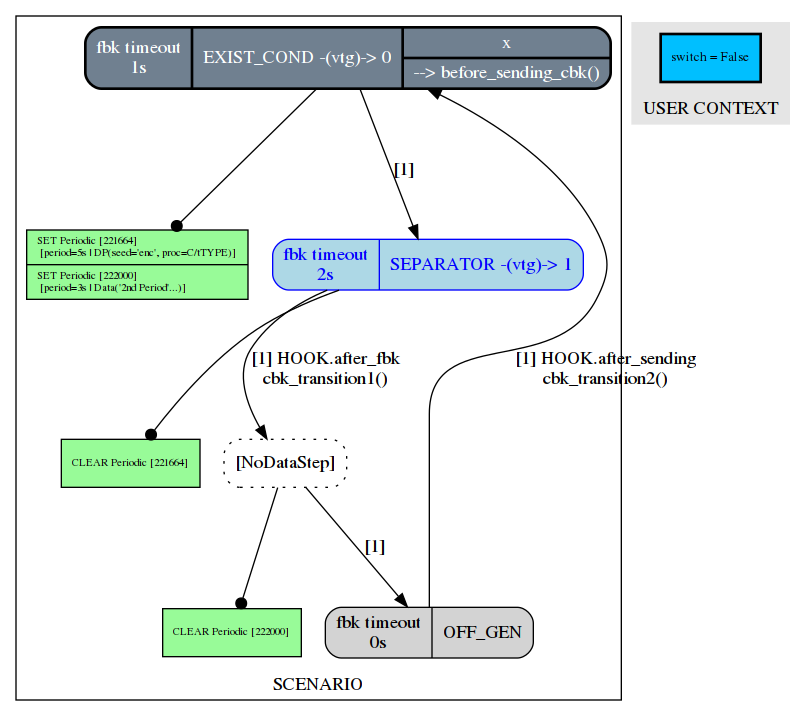
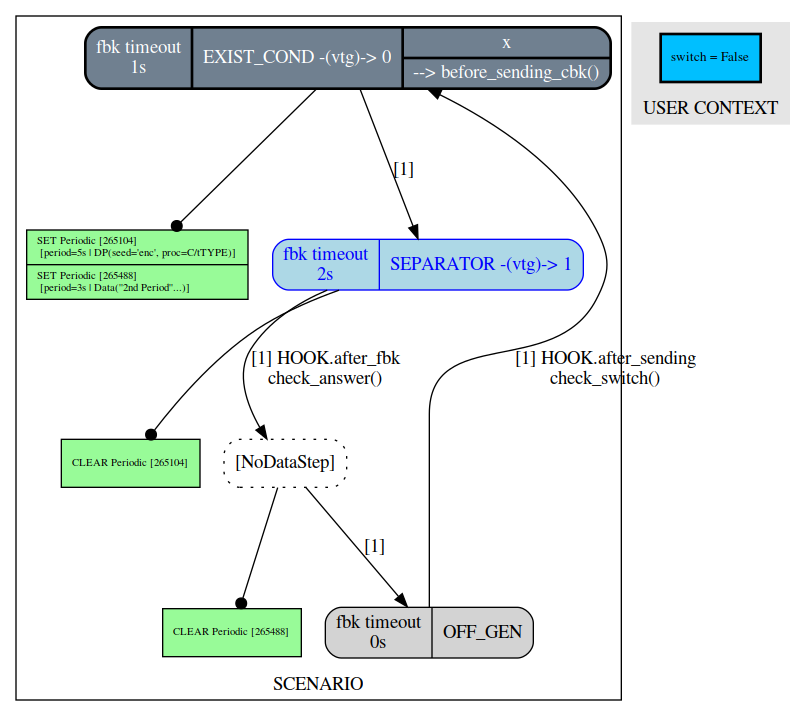
Minor cosmetic changes in tuto data model

diff --git a/data_models/tutorial/tuto_strategy.py b/data_models/tutorial/tuto_strategy.py
@@ -7,7 +7,7 @@ from framework.value_types import *
 
 tactics = Tactics()
 
-def cbk_transition1(env, current_step, next_step, feedback):
+def check_answer(env, current_step, next_step, feedback):
     if not feedback:
         print("\n\nNo feedback retrieved. Let's wait for another turn")
         current_step.make_blocked()
@@ -30,7 +30,7 @@ def cbk_transition1(env, current_step, next_step, feedback):
             print("*** The next node won't be modified!")
         return True
 
-def cbk_transition2(env, current_step, next_step):
+def check_switch(env, current_step, next_step):
     if env.user_context.switch:
         return False
     else:
@@ -48,8 +48,7 @@ def before_data_processing_cbk(env, step):
         step.content.show()
     return True
 
-periodic1 = Periodic(DataProcess(process=[('C', UI(nb=1)), 'tTYPE'], seed='enc'),
-                     period=5)
+periodic1 = Periodic(DataProcess(process=[('C', UI(nb=1)), 'tTYPE'], seed='enc'), period=5)
 periodic2 = Periodic(Data('2nd Periodic (3s)\n'), period=3)
 
 ### SCENARIO 1 ###
@@ -63,9 +62,9 @@ step1_copy = copy.copy(step1) # for scenario 2
 step2_copy = copy.copy(step2) # for scenario 2
 
 step1.connect_to(step2)
-step2.connect_to(empty, cbk_after_fbk=cbk_transition1)
+step2.connect_to(empty, cbk_after_fbk=check_answer)
 empty.connect_to(step4)
-step4.connect_to(step1, cbk_after_sending=cbk_transition2)
+step4.connect_to(step1, cbk_after_sending=check_switch)
 
 sc_tuto_ex1 = Scenario('ex1', anchor=step1, user_context=UI(switch=False))
 
@@ -74,7 +73,7 @@ step4 = Step(DataProcess(process=['tTYPE#2'], seed='shape'))
 step_final = FinalStep()
 
 step1_copy.connect_to(step2_copy)
-step2_copy.connect_to(step4, cbk_after_fbk=cbk_transition1)
+step2_copy.connect_to(step4, cbk_after_fbk=check_answer)
 step4.connect_to(step_final)
 
 sc_tuto_ex2 = Scenario('ex2', anchor=step1_copy)
@@ -88,7 +87,7 @@ option1 = Step(Data('Option 1'), step_desc='option 1\ndescription',
 option2 = Step(Data('Option 2'),
                do_before_data_processing=before_data_processing_cbk)
 
-anchor.connect_to(option1, cbk_after_sending=cbk_transition2)
+anchor.connect_to(option1, cbk_after_sending=check_switch)
 anchor.connect_to(option2)
 option1.connect_to(anchor)
 option2.connect_to(anchor)

diff --git a/docs/source/scenario.rst b/docs/source/scenario.rst
@@ -62,9 +62,9 @@ Let's begin with a simple example that interconnect 3 steps in a loop without an
     step4 = Step('off_gen', fbk_timeout=0)
 
     step1.connect_to(step2)
-    step2.connect_to(step3, cbk_after_fbk=cbk_transition1)
+    step2.connect_to(step3, cbk_after_fbk=check_answer)
     step3.connect_to(step4)
-    step4.connect_to(step1, cbk_after_sending=cbk_transition2)
+    step4.connect_to(step1, cbk_after_sending=check_switch)
 
     sc1 = Scenario('ex1', anchor=step1, user_context=UI(switch=False))
 
